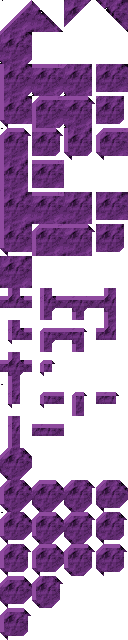
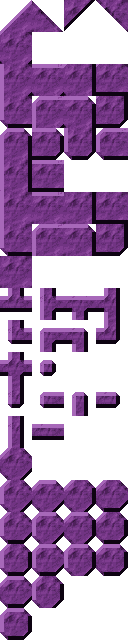
Updated the irregular window example to use a correctly-indexed PNG from GIMP 3.

diff --git a/examples/irregular-corners-edges/irregular-example.html b/examples/irregular-corners-edges/irregular-example.html
@@ -89,7 +89,7 @@
                 ]
             });
             
-            let blob = await fetch("n64-ui--8-color-rgb.png")
+            let blob = await fetch("n64-ui--8-color-idx.png")
                 .then(r => r.blob());
 
             let dataUrl = await new Promise(resolve => {
